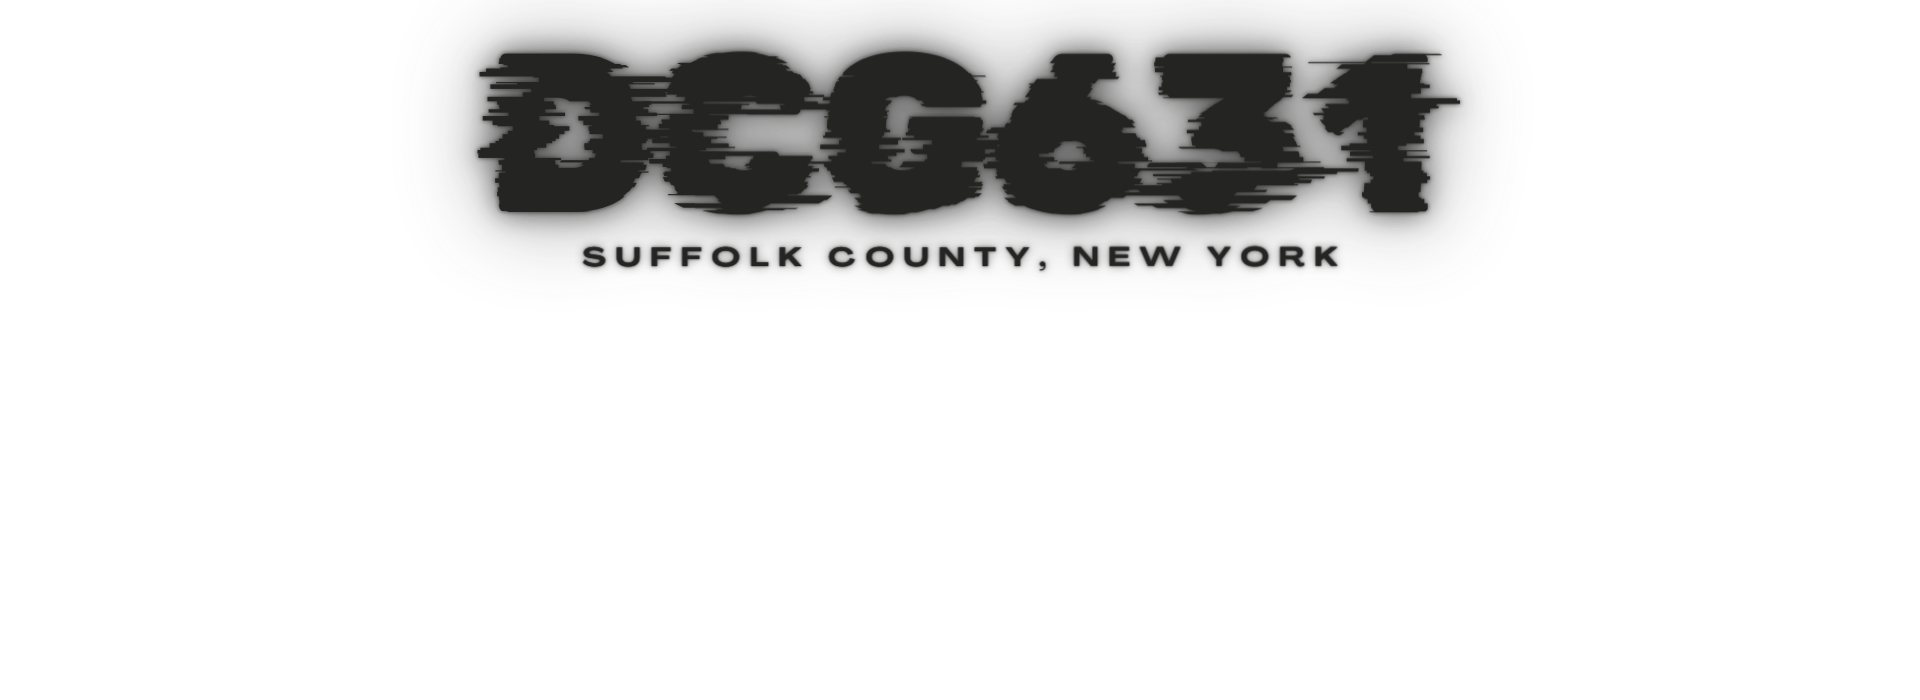
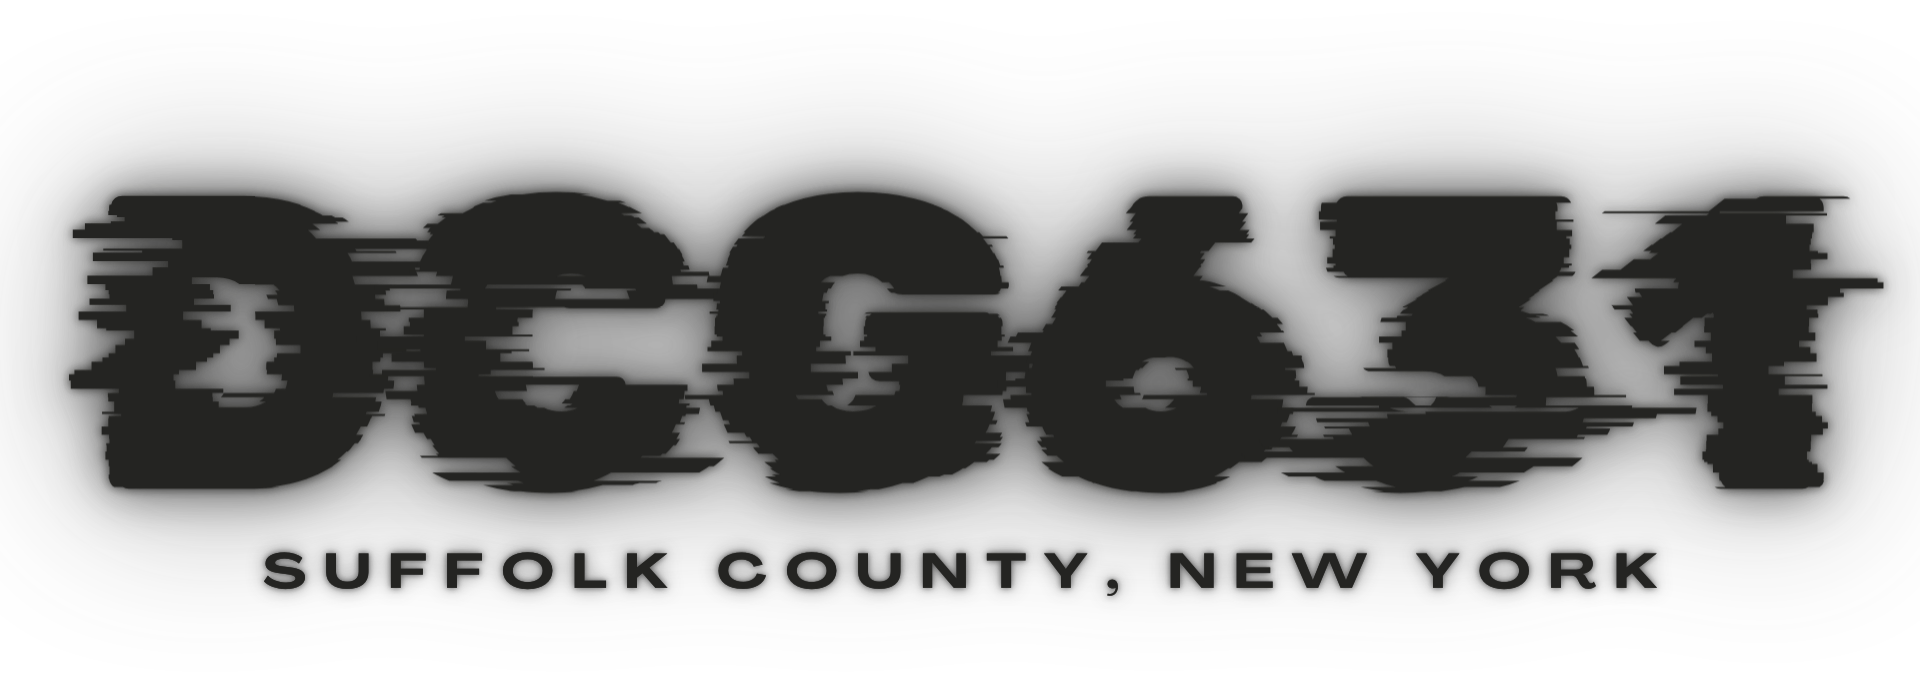
small tweaks.

diff --git a/index.html b/index.html
@@ -25,7 +25,7 @@
     <link href="./vendor/css/cubeportfolio.min.css" rel="stylesheet" />
     <link href="./css/line-awesome.min.css" rel="stylesheet" />
     <!-- Style Sheet -->
-    <link href="./css/style.1.0.1.css" rel="stylesheet" />
+    <link href="./css/style.1.0.2.css" rel="stylesheet" />
     <link href="./css/custom.css" rel="stylesheet" />
   </head>
 
@@ -144,14 +144,12 @@
     </header>
     <!-- End Header -->
 <!--Banner Start-->
-<section class="page-title mb-5">
-    <div class="bg-overlay bg-black opacity-7"></div>
+
+<section class="page-title mb-5 img-fluid" style="background-color: #2b2b2b;">
     <div class="container">
+        <img src="/img/hero_alt_image.png" class="img-fluid" alt="DCG631 hero image logo">
         <h2 class="hide-cursor">DCG631 - Suffolk County, NY</h2>
-        <ul class="page-breadcrumb link">
-            <li><a href="#"><span class="icon fas fa-home"></span>Home</a></li>
-            <li>Welcome</li>
-        </ul>
+
     </div>
 </section>
 <!--Banner End-->
@@ -176,7 +174,7 @@
                       information security.
                     </p>
                     <div class="para_text">
-                      <img src="img/events/IMG_5076.jpg" alt="image" />
+                      <img src="img/hero_img.png" class="img-fluid" alt="image" />
                     </div>
                   </div>
                 </div>

diff --git a/css/style.1.0.2.css b/css/style.1.0.2.css
@@ -1319,10 +1319,8 @@ header .navbar-brand img {
 }
 
 .page-title{
-    background:url("/img/hero_img.png");
     position:relative;
     text-align:center;
-    padding: 200px 0 0px 0;
     background-size: cover;
     background-position: top center;
 }
@@ -1335,7 +1333,7 @@ header .navbar-brand img {
     color:#ffffff;
     font-weight:bold;
     line-height:1.2em;
-    margin-bottom: 10px;
+    margin-bottom: 0px;
     font-size: 60px;
     text-transform:capitalize;
     font-family: 'Montserrat', sans-serif;
